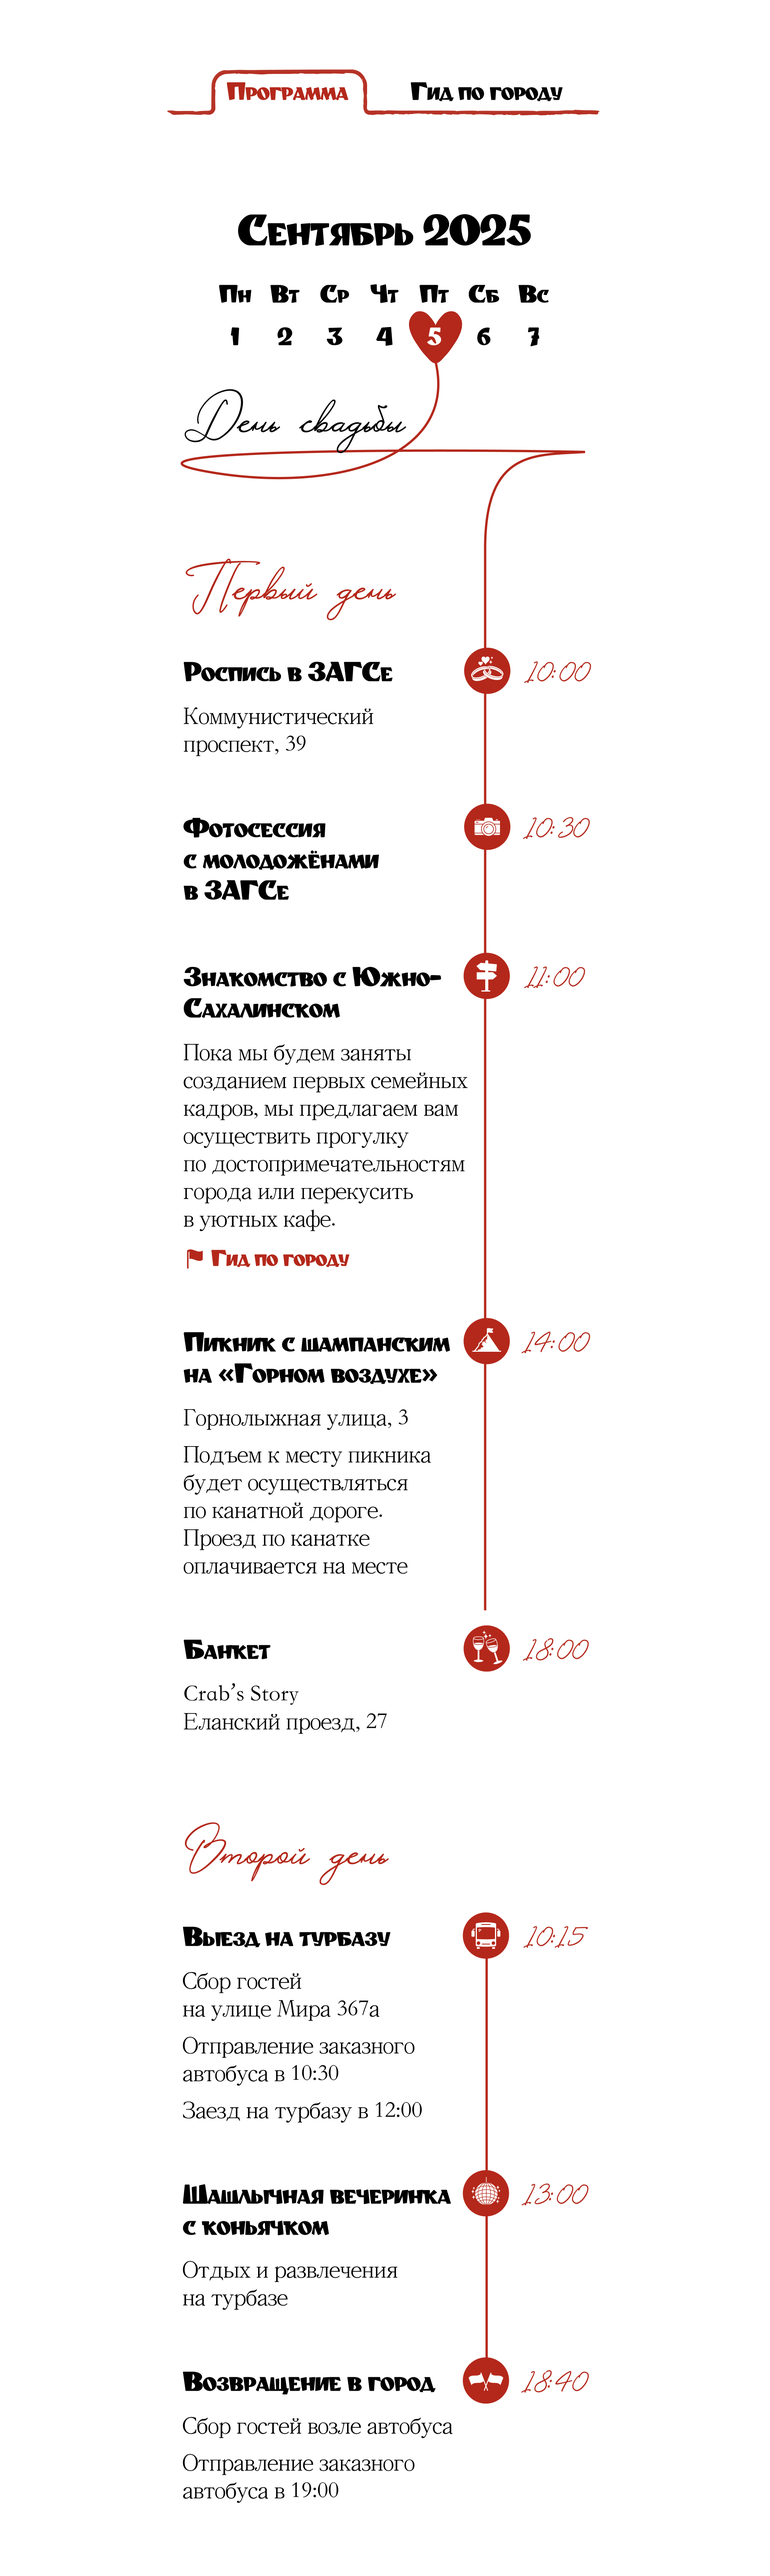
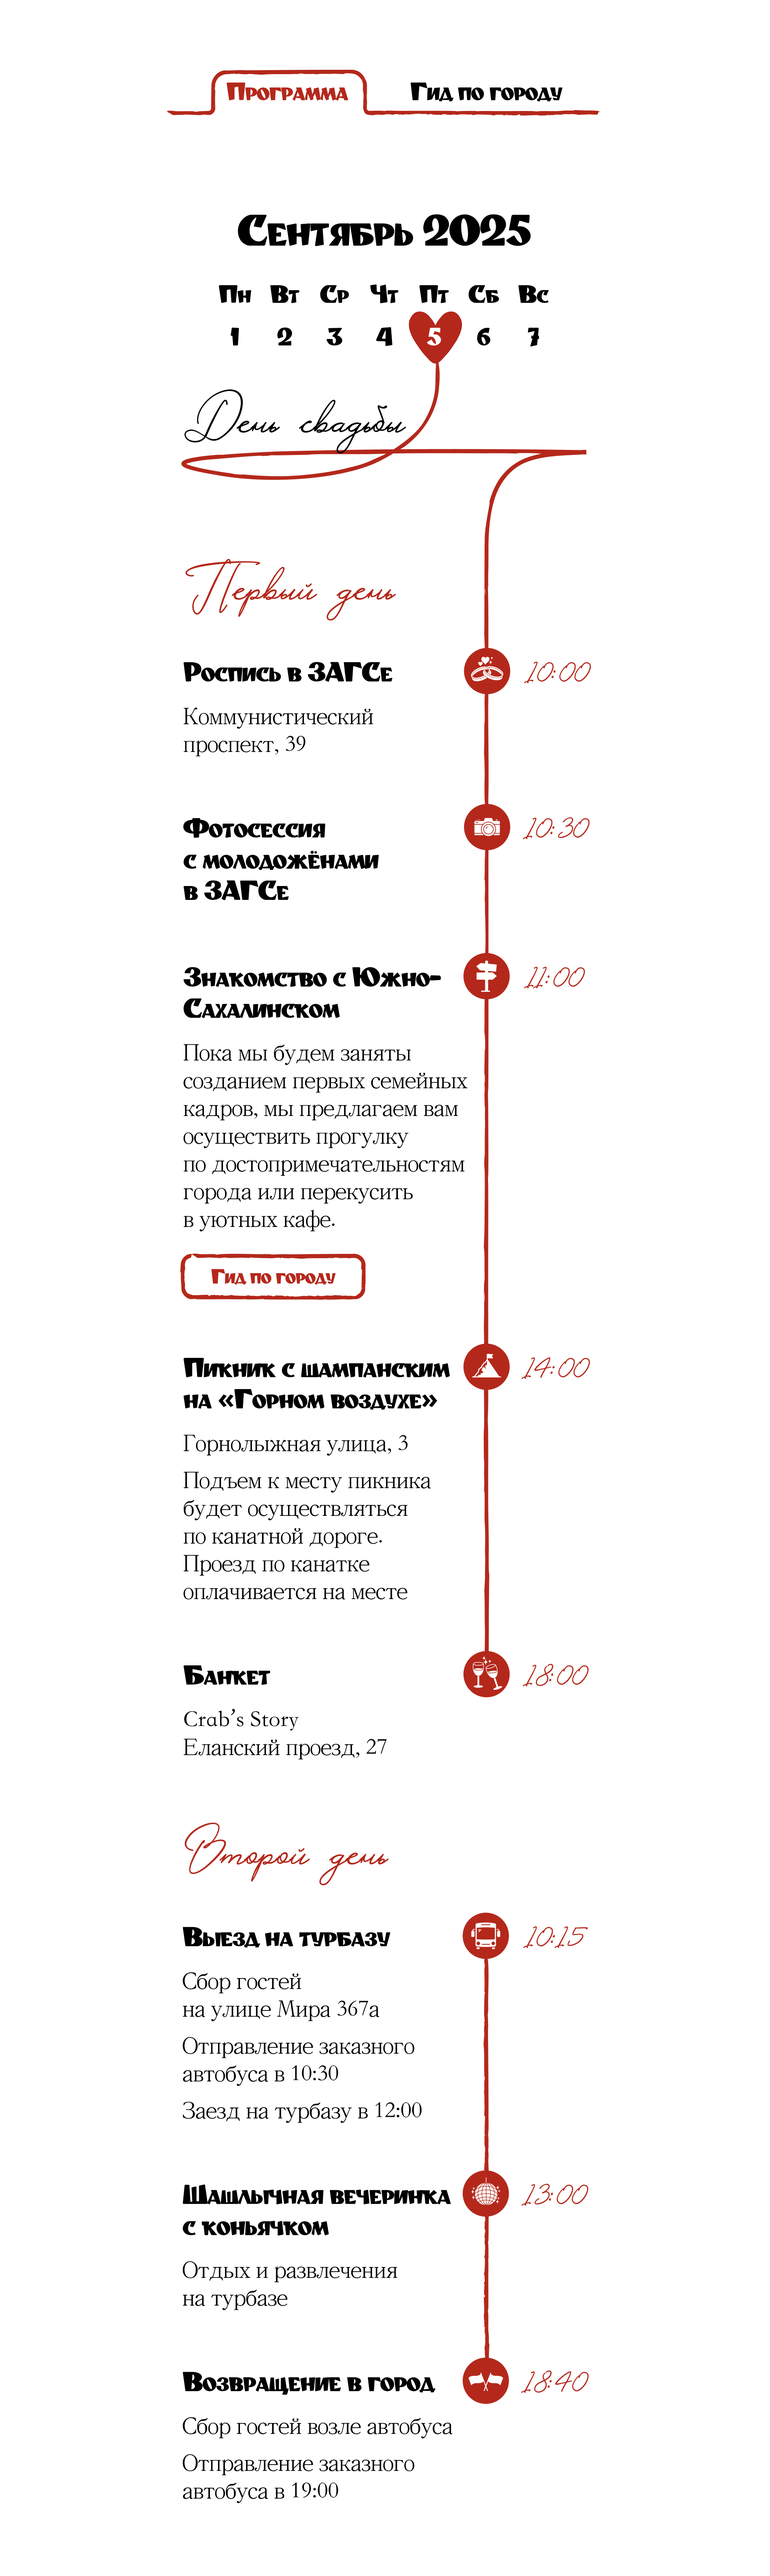
update

diff --git a/style.css b/style.css
@@ -76,7 +76,7 @@ img {
 
 #tab-guide-scroll {
     /* This is a GUESS for the position of the new button */
-    top: 1090px;
+    top: 1100px;
     left: 20%;
     width: 40%;
     height: 50px;
